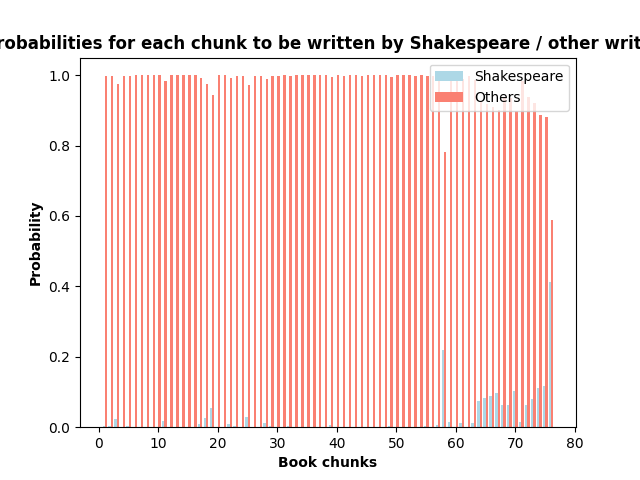
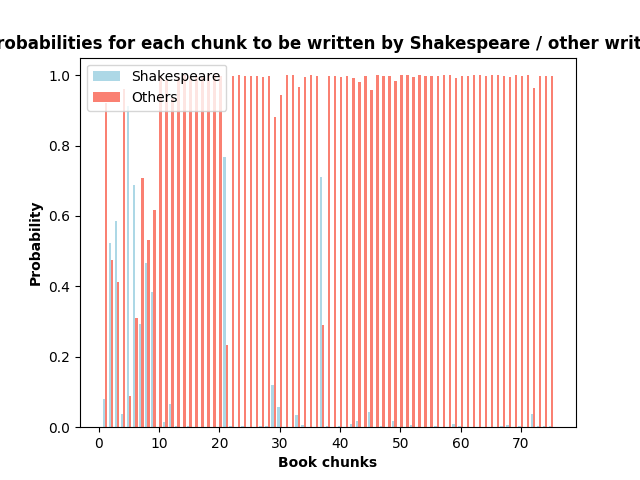
.

Changed region(s): [[0.125, 0.125, 0.875, 0.9375], [0.875, 0.9062, 0.9062, 0.9375]]

diff --git a/main3.py b/main3.py
@@ -170,7 +170,7 @@ def build_model():
 
 def fit_model(model, x_train, y_train_prob, x_valid, y_valid_prob):
     # Train the model
-    history = model.fit(x_train, y_train_prob, validation_data=(x_valid, y_valid_prob), batch_size=10, epochs=10)
+    history = model.fit(x_train, y_train_prob, validation_data=(x_valid, y_valid_prob), batch_size=10, epochs=15)
     _, accuracy = model.evaluate(x_valid, y_valid_prob, verbose=0)
     print("Accuracy of test groups:", accuracy)
     return model, history
@@ -185,78 +185,78 @@ config_128tokens = {
 
 
 config = config_128tokens
-
-fake_news = read_file_into_array('DATABASE/fakenews/db1/fake5.csv')
-real_news = read_file_into_array('DATABASE/fakenews/db1/true5.csv')
-
-real_texts = []
-for tweet in real_news:
-    preprocessed_text = text_preprocessing(tweet)
-    tweet_blocks = seperate_to_blocks(preprocessed_text)
-    real_texts.extend((block for block in tweet_blocks))
-
-fake_texts = []
-for tweet in fake_news:
-    preprocessed_text = text_preprocessing(tweet)
-    tweet_blocks = seperate_to_blocks(preprocessed_text)
-    fake_texts.extend((block for block in tweet_blocks))
-
-texts = real_texts + fake_texts
-
-# define original classification
-y_expected = define_expected_classification(len(real_texts), len(texts))
-
-x_train, x, y_train, y = train_test_split(texts, y_expected, train_size=0.7)
-x_test, x_valid, y_test, y_valid = train_test_split(x, y, train_size=0.5)
-
-y_train_prob = np_utils.to_categorical(y_train)
-y_test_prob = np_utils.to_categorical(y_test)
-y_valid_prob = np_utils.to_categorical(y_valid)
-num_classes = y_train_prob.shape[1]
-
-new_model = True
-trained_model_name = 'Fake_News_2.h5'
-if new_model == True:
-    model = build_model()
-    model, history = fit_model(model, tf.constant(x_train), y_train_prob, tf.constant(x_valid), y_valid_prob)
-    model.save(trained_model_name)
-else:
-    model = tf.keras.models.load_model(trained_model_name, custom_objects={'KerasLayer': hub.KerasLayer})
-
-_, accuracy = model.evaluate(tf.constant(x_test), y_test_prob, verbose=0)
-print("Accuracy of evaluate new test groups:", accuracy)
-
-Y_predicted_prob = model.predict(tf.constant(x_test))
-Y_predicted = np.argmax(Y_predicted_prob, -1)
-count_well_predicted = np.count_nonzero([y_test == Y_predicted])
-
-print("Number of true predicts:", count_well_predicted)
-print("Number of false predicts:", Y_predicted.shape[0] - count_well_predicted)
-
-#-------- Showing results of model training and validation---------------#
-
-import matplotlib.pyplot as plt
-
-plt.plot(history.history['accuracy'])
-plt.plot(history.history['val_accuracy'])
-
-plt.title('Model accuracy in epoch')
-plt.ylabel('Accuracy')
-plt.xlabel('Epoch')
-plt.legend(['Train', 'Validation'], loc='upper left')
-from constants import PLOTS_PATH
-
-acc_path = "../" + PLOTS_PATH + "ModelAcc.png"
-plt.savefig(acc_path)
-
-plt.plot(history.history['loss'])
-plt.plot(history.history['val_loss'])
-plt.title('Model loss in epoch')
-plt.ylabel('Loss')
-plt.xlabel('Epoch')
-plt.legend(['Train', 'Validation'], loc='upper left')
-loss_path = "../" + PLOTS_PATH + "ModelLoss.png"
-plt.savefig(loss_path)
+#
+# fake_news = read_file_into_array('DATABASE/fakenews/db1/fake5.csv')
+# real_news = read_file_into_array('DATABASE/fakenews/db1/true5.csv')
+#
+# real_texts = []
+# for tweet in real_news:
+#     preprocessed_text = text_preprocessing(tweet)
+#     tweet_blocks = seperate_to_blocks(preprocessed_text)
+#     real_texts.extend((block for block in tweet_blocks))
+#
+# fake_texts = []
+# for tweet in fake_news:
+#     preprocessed_text = text_preprocessing(tweet)
+#     tweet_blocks = seperate_to_blocks(preprocessed_text)
+#     fake_texts.extend((block for block in tweet_blocks))
+#
+# texts = real_texts + fake_texts
+#
+# # define original classification
+# y_expected = define_expected_classification(len(real_texts), len(texts))
+#
+# x_train, x, y_train, y = train_test_split(texts, y_expected, train_size=0.7)
+# x_test, x_valid, y_test, y_valid = train_test_split(x, y, train_size=0.5)
+#
+# y_train_prob = np_utils.to_categorical(y_train)
+# y_test_prob = np_utils.to_categorical(y_test)
+# y_valid_prob = np_utils.to_categorical(y_valid)
+# num_classes = y_train_prob.shape[1]
+#
+# new_model = True
+# trained_model_name = 'Fake_News_2.h5'
+# if new_model == True:
+#     model = build_model()
+#     model, history = fit_model(model, tf.constant(x_train), y_train_prob, tf.constant(x_valid), y_valid_prob)
+#     model.save(trained_model_name)
+# else:
+#     model = tf.keras.models.load_model(trained_model_name, custom_objects={'KerasLayer': hub.KerasLayer})
+#
+# _, accuracy = model.evaluate(tf.constant(x_test), y_test_prob, verbose=0)
+# print("Accuracy of evaluate new test groups:", accuracy)
+#
+# Y_predicted_prob = model.predict(tf.constant(x_test))
+# Y_predicted = np.argmax(Y_predicted_prob, -1)
+# count_well_predicted = np.count_nonzero([y_test == Y_predicted])
+#
+# print("Number of true predicts:", count_well_predicted)
+# print("Number of false predicts:", Y_predicted.shape[0] - count_well_predicted)
+#
+# #-------- Showing results of model training and validation---------------#
+#
+# import matplotlib.pyplot as plt
+#
+# plt.plot(history.history['accuracy'])
+# plt.plot(history.history['val_accuracy'])
+#
+# plt.title('Model accuracy in epoch')
+# plt.ylabel('Accuracy')
+# plt.xlabel('Epoch')
+# plt.legend(['Train', 'Validation'], loc='upper left')
+# from constants import PLOTS_PATH
+#
+# acc_path = "../" + PLOTS_PATH + "ModelAcc.png"
+# plt.savefig(acc_path)
+#
+# plt.plot(history.history['loss'])
+# plt.plot(history.history['val_loss'])
+# plt.title('Model loss in epoch')
+# plt.ylabel('Loss')
+# plt.xlabel('Epoch')
+# plt.legend(['Train', 'Validation'], loc='upper left')
+# loss_path = "../" + PLOTS_PATH + "ModelLoss.png"
+# plt.savefig(loss_path)
 
 # # ------------------------------------
 import os
@@ -296,80 +296,80 @@ def read_book(books_dir_path, writer_name, book_name):
 
 
 
-#
-# books_dir_path = 'DATABASE/books_for_train1'
-#
-# author_books = read_books_of_specific_author(books_dir_path,author_name='shakespeare')
-# different_books = read_books_of_various_authors(books_dir_path,name_to_ignore='shakespeare')
-#
-# author_texts = []
-# for book in author_books:
-#     preprocessed_text = text_preprocessing(book)
-#     book_blocks = seperate_to_blocks(preprocessed_text)
-#     author_texts.extend(block for block in book_blocks)
-# diff_texts = []
-# for book in different_books:
-#     preprocessed_text = text_preprocessing(book)
-#     book_blocks = seperate_to_blocks(preprocessed_text)
-#     diff_texts.extend(block for block in book_blocks)
-#
-# texts = author_texts + diff_texts
-#
-# # define original classification
-# y_expected = define_expected_classification(len(author_texts), len(texts))
-#
-# x_train, x, y_train, y = train_test_split(texts, y_expected, train_size=0.7)
-# x_test, x_valid, y_test, y_valid = train_test_split(x, y, train_size=0.5)
-#
-# y_train_prob = np_utils.to_categorical(y_train)
-# y_test_prob = np_utils.to_categorical(y_test)
-# y_valid_prob = np_utils.to_categorical(y_valid)
-# num_classes = y_train_prob.shape[1]
-#
-#
-# new_model = True
-#
-# trained_model_name = 'Shakespeare.h5'
-# if new_model == True:
-#     model = build_model()
-#     model, history = fit_model(model, tf.constant(x_train), y_train_prob, tf.constant(x_valid), y_valid_prob)
-#     model.save(trained_model_name)
-# else:
-#     model = tf.keras.models.load_model(trained_model_name, custom_objects={'KerasLayer': hub.KerasLayer})
-#
-# _, accuracy = model.evaluate(tf.constant(x_test), y_test_prob, verbose=0)
-# print("Accuracy of evaluate new test groups:", accuracy)
-#
-# Y_predicted_prob = model.predict(tf.constant(x_test))
-# Y_predicted = np.argmax(Y_predicted_prob, -1)
-# count_well_predicted = np.count_nonzero([y_test == Y_predicted])
-#
-# print("Number of true predicts:", count_well_predicted)
-# print("Number of false predicts:", Y_predicted.shape[0] - count_well_predicted)
-#
-# # -------- Showing results of model training and validation---------------#
-#
-# import matplotlib.pyplot as plt
-#
-# plt.plot(history.history['accuracy'])
-# plt.plot(accuracy)
-# plt.title('Model accuracy in epoch')
-# plt.ylabel('Accuracy')
-# plt.xlabel('Epoch')
-# plt.legend(['Train', 'Validation'], loc='upper left')
-# # plt.show()
-# plt.savefig('ModelAcc.png')
-#
-#
-# plt.plot(history.history['loss'])
-# plt.plot(accuracy)
-# plt.title('Model loss in epoch')
-# plt.ylabel('Loss')
-# plt.xlabel('Epoch')
-# plt.legend(['Train', 'Validation'], loc='upper left')
-# plt.savefig("ModelLoss.png")
 
-#plt.savefig('PLOTS\ShakespeareModelLoss.png')
+books_dir_path = 'DATABASE/books_for_train1'
+
+author_books = read_books_of_specific_author(books_dir_path,author_name='Shakespeare')
+different_books = read_books_of_various_authors(books_dir_path,name_to_ignore='Shakespeare')
+
+author_texts = []
+for book in author_books:
+    preprocessed_text = text_preprocessing(book)
+    book_blocks = seperate_to_blocks(preprocessed_text)
+    author_texts.extend(block for block in book_blocks)
+diff_texts = []
+for book in different_books:
+    preprocessed_text = text_preprocessing(book)
+    book_blocks = seperate_to_blocks(preprocessed_text)
+    diff_texts.extend(block for block in book_blocks)
+
+texts = author_texts + diff_texts
+
+# define original classification
+y_expected = define_expected_classification(len(author_texts), len(texts))
+
+x_train, x, y_train, y = train_test_split(texts, y_expected, train_size=0.7)
+x_test, x_valid, y_test, y_valid = train_test_split(x, y, train_size=0.5)
+
+y_train_prob = np_utils.to_categorical(y_train)
+y_test_prob = np_utils.to_categorical(y_test)
+y_valid_prob = np_utils.to_categorical(y_valid)
+num_classes = y_train_prob.shape[1]
+
+
+new_model = True
+
+trained_model_name = 'Shakespeare.h5'
+if new_model == True:
+    model = build_model()
+    model, history = fit_model(model, tf.constant(x_train), y_train_prob, tf.constant(x_valid), y_valid_prob)
+    model.save(trained_model_name)
+else:
+    model = tf.keras.models.load_model(trained_model_name, custom_objects={'KerasLayer': hub.KerasLayer})
+
+_, accuracy = model.evaluate(tf.constant(x_test), y_test_prob, verbose=0)
+print("Accuracy of evaluate new test groups:", accuracy)
+
+Y_predicted_prob = model.predict(tf.constant(x_test))
+Y_predicted = np.argmax(Y_predicted_prob, -1)
+count_well_predicted = np.count_nonzero([y_test == Y_predicted])
+
+print("Number of true predicts:", count_well_predicted)
+print("Number of false predicts:", Y_predicted.shape[0] - count_well_predicted)
+
+# -------- Showing results of model training and validation---------------#
+
+import matplotlib.pyplot as plt
+
+plt.plot(history.history['accuracy'])
+plt.plot(accuracy)
+plt.title('Model accuracy in epoch')
+plt.ylabel('Accuracy')
+plt.xlabel('Epoch')
+plt.legend(['Train', 'Validation'], loc='upper left')
+# plt.show()
+plt.savefig('ModelAcc.png')
+
+
+plt.plot(history.history['loss'])
+plt.plot(accuracy)
+plt.title('Model loss in epoch')
+plt.ylabel('Loss')
+plt.xlabel('Epoch')
+plt.legend(['Train', 'Validation'], loc='upper left')
+plt.savefig("ModelLoss.png")
+
+plt.savefig('PLOTS\ShakespeareModelLoss.png')
 
 #---------------------
 

diff --git a/model/plagiarism_detection.py b/model/plagiarism_detection.py
@@ -7,11 +7,12 @@ import matplotlib.pyplot as plt
 class PlagiarismDetection(Detection):
     def __init__(self, input, model_name, author_name, book_name):
         super().__init__(input=input, model_name=model_name, model_type="Plagiarism")
-        # todo:
-        # self.author_name = author_name
-        # delete:
-        self.author_name = 'Shakespeare'
+
+        self.author_name = author_name
         self.book_name = book_name
+
+        self.results_csv_path = 'detection results.csv'
+        self.write_results_to_file(file_path=self.results_csv_path, author_name=author_name, book_name=book_name, percent=self.real_percent)
 
     def create_distribution_plot(self):
         # Creating dataset
@@ -64,7 +65,8 @@ class PlagiarismDetection(Detection):
         plt.bar(X_axis + 0.2, self.probabilities[:, 1], 0.4, label='Others', color="salmon")
         plt.xlabel("Book chunks", weight="bold")
         plt.ylabel("Probability", weight="bold")
-        plt.title("Probabilities for each chunk to be written by " + self.author_name + " / other writers", weight="bold")
+        plt.title("Probabilities for each chunk to be written by " + self.author_name + " / other writers",
+                  weight="bold")
         plt.legend()
         plt.savefig("../" + self.plot_path1)
 
@@ -77,3 +79,20 @@ class PlagiarismDetection(Detection):
         else:
             text += "It seems like the book wasn't written by Shakespeare"
         return text
+
+    @staticmethod
+    def write_results_to_file(file_path, author_name, book_name, percent):
+        import csv
+        from pathlib import Path
+
+        my_file = Path(file_path)
+
+        file_exist = my_file.exists()
+
+        with open(file_path, 'a', encoding='UTF8') as f:
+            writer = csv.writer(f)
+            if not file_exist:
+                header = ['author name', 'book name', 'percent that written by author']
+                writer.writerow(header)
+            data = [author_name, book_name, percent]
+            writer.writerow(data)

diff --git a/model/fake_bert_model.py b/model/fake_bert_model.py
@@ -22,14 +22,14 @@ class FakeBERTModel():
 
     def build_model(self, num_classes):
         input_layer = tf.keras.layers.Input(shape=(), dtype=tf.string, name='text')
-        os.chdir("../BERT/")
-        preprocessing_layer = hub.KerasLayer('preprocessor', name='preprocessing')
+        os.chdir("../")
+        preprocessing_layer = hub.KerasLayer('BERT/preprocessor', name='preprocessing')
         bert_encoder_inputs = preprocessing_layer(input_layer)
 
-        bert_encoder = hub.KerasLayer('encoder', trainable=True, name='BERT_encoder')
+        bert_encoder = hub.KerasLayer('BERT/encoder', trainable=True, name='BERT_encoder')
         bert_outputs = bert_encoder(bert_encoder_inputs)
         embeddings = bert_outputs["sequence_output"]  # [batch_size, seq_length, 768]
-        os.chdir("../gui_controllers")
+        os.chdir("gui_controllers")
         cnn_parallel_block_1 = tf.keras.layers.Conv1D \
             (filters=128, kernel_size=3, activation='relu', input_shape=(self.config['max_seq_len'], 768))(embeddings)
         cnn_parallel_block_1 = tf.keras.layers.MaxPooling1D \

diff --git a/model/detection.py b/model/detection.py
@@ -26,6 +26,10 @@ class Detection():
 
         self.real_percent, self.fake_percent = self.get_distribution()
 
+
+
+
+
     @staticmethod
     def get_preprocessed_text(input, max_text_len):
         input_texts = []
